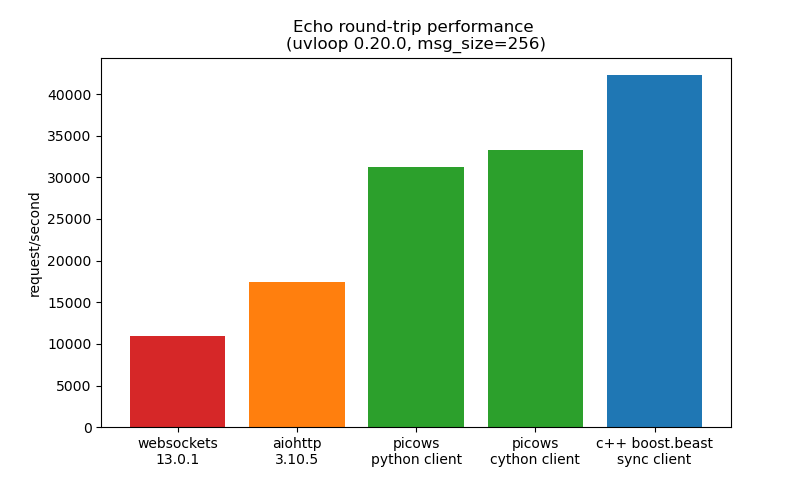
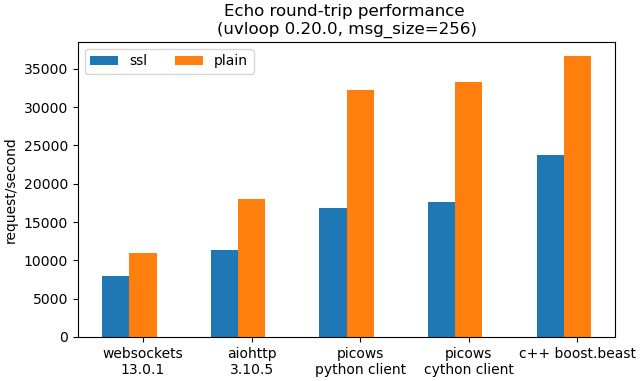
Add ssl to benchmark, update benchmark

diff --git a/examples/echo_client_benchmark.py b/examples/echo_client_benchmark.py
@@ -6,7 +6,9 @@ import subprocess
 
 from logging import getLogger
 from ssl import SSLContext
+from typing import List, Dict, Tuple
 
+import numpy as np
 import websockets
 import aiohttp
 from aiohttp import ClientSession, WSMsgType as aiohttp_WSMsgType
@@ -17,7 +19,8 @@ from time import time
 _logger = getLogger(__name__)
 
 
-RPS = {}
+RPS: Dict[str, List[float]] = {"ssl": [], "plain": []}
+NAMES: List[str] = []
 
 
 def create_client_ssl_context():
@@ -30,11 +33,11 @@ def create_client_ssl_context():
 
 
 async def picows_main(endpoint: str, msg: bytes, duration: int, ssl_context):
-    print(f"Run picows python client")
+    cl_type = "plain" if ssl_context is None else "ssl"
+    print(f"Run picows python {cl_type} client")
     class PicowsClientListener(WSListener):
         def __init__(self):
             super().__init__()
-            self._full_msg = bytearray()
 
         def on_ws_connected(self, transport: WSTransport):
             self._transport = transport
@@ -43,48 +46,43 @@ async def picows_main(endpoint: str, msg: bytes, duration: int, ssl_context):
             self._transport.send(WSMsgType.BINARY, msg)
 
         def on_ws_frame(self, transport: WSTransport, frame: WSFrame):
-            if frame.fin:
-                if self._full_msg:
-                    self._full_msg += frame.get_payload_as_memoryview()
-                    self._full_msg.clear()
-                else:
-                    pass
-            else:
-                self._full_msg += frame.get_payload_as_memoryview()
-                return
-
+            global result
             self._cnt += 1
 
             if time() - self._start_time >= duration:
-                RPS["picows\npython client"] = int(self._cnt / duration)
+                self.result = "picows\npython client", int(self._cnt / duration)
                 self._transport.disconnect()
             else:
                 self._transport.send(WSMsgType.BINARY, msg)
 
     (_, client) = await ws_connect(PicowsClientListener, endpoint, ssl_context=ssl_context)
     await client._transport.wait_disconnected()
+    return client.result
 
 
 async def websockets_main(endpoint: str, msg: bytes, duration: int, ssl_context):
-    print(f"Run websockets ({websockets.__version__}) client")
+    cl_type = "plain" if ssl_context is None else "ssl"
+
+    print(f"Run websockets ({websockets.__version__}) {cl_type} client")
     async with websockets.connect(endpoint, ssl=ssl_context) as websocket:
         await websocket.send(msg)
         start_time = time()
         cnt = 0
         while True:
             reply = await websocket.recv()
-            assert reply == msg
             cnt += 1
             if time() - start_time >= duration:
                 break
             else:
                 await websocket.send(msg)
 
-        RPS[f"websockets\n{websockets.__version__}"] = int(cnt / duration)
+        return f"websockets\n{websockets.__version__}",  int(cnt / duration)
 
 
-async def aiohttp_main(url: str, data: bytes, duration: int, ssl_context) -> None:
-    print(f"Run aiohttp ({aiohttp.__version__}) client")
+async def aiohttp_main(url: str, data: bytes, duration: int, ssl_context):
+    cl_type = "plain" if ssl_context is None else "ssl"
+
+    print(f"Run aiohttp ({aiohttp.__version__}) {cl_type} client")
 
     async with ClientSession() as session:
         async with session.ws_connect(url, ssl_context=ssl_context) as ws:
@@ -99,8 +97,8 @@ async def aiohttp_main(url: str, data: bytes, duration: int, ssl_context) -> Non
                 if msg.type == aiohttp_WSMsgType.BINARY:
                     cnt += 1
                     if time() - start_time >= duration:
-                        RPS[f"aiohttp\n{aiohttp.__version__}"] = int(cnt/duration)
                         await ws.close()
+                        return f"aiohttp\n{aiohttp.__version__}", int(cnt/duration)
                     else:
                         await ws.send_bytes(data)
                 else:
@@ -117,15 +115,14 @@ async def aiohttp_main(url: str, data: bytes, duration: int, ssl_context) -> Non
 if __name__ == '__main__':
     parser = argparse.ArgumentParser(description="Publish updates to telegram subscribers",
                                      formatter_class=argparse.ArgumentDefaultsHelpFormatter)
-    parser.add_argument("--url", default="ws://127.0.0.1:9001", help="Server url")
+    parser.add_argument("--host", default="127.0.0.1", help="Server host")
+    parser.add_argument("--plain-port", default="9001", help="Server port with plain websockets")
+    parser.add_argument("--ssl-port", default="9002", help="Server port with secure websockets")
     parser.add_argument("--msg-size", default="256", help="Message size")
-    parser.add_argument("--level", default="INFO", help="python logger level")
     parser.add_argument("--duration", default="5", help="duration of test in seconds")
     parser.add_argument("--disable-uvloop", action="store_true", help="Disable uvloop")
     parser.add_argument("--picows-only", action="store_true", help="Run only picows cython client")
     parser.add_argument("--boost-client", help="Path to boost client binary")
-    parser.add_argument("--log-file", help="tee log to file")
-    parser.add_argument("--log-scale", action="store_true", help="Plot RPS on log scale")
     args = parser.parse_args()
 
     msg_size = int(args.msg_size)
@@ -139,27 +136,60 @@ if __name__ == '__main__':
             asyncio.set_event_loop_policy(uvloop.EventLoopPolicy())
             loop_name = f"uvloop {uvloop.__version__}"
 
-    ssl_context = create_client_ssl_context() if args.url.startswith("wss://") else None
+    ssl_context = create_client_ssl_context()
+    plain_url = f"ws://{args.host}:{args.plain_port}/"
+    ssl_url = f"wss://{args.host}:{args.ssl_port}/"
 
     if not args.picows_only:
-        asyncio.run(websockets_main(args.url, msg, duration, ssl_context))
-        asyncio.run(aiohttp_main(args.url, msg, duration, ssl_context))
-        asyncio.run(picows_main(args.url, msg, duration, ssl_context))
+        _, rps = asyncio.run(websockets_main(plain_url, msg, duration, None))
+        RPS["plain"].append(rps)
+        name, rps = asyncio.run(websockets_main(ssl_url, msg, duration, ssl_context))
+        RPS["ssl"].append(rps)
+        NAMES.append(name)
+
+        _, rps = asyncio.run(aiohttp_main(plain_url, msg, duration, None))
+        RPS["plain"].append(rps)
+        name, rps = asyncio.run(aiohttp_main(ssl_url, msg, duration, ssl_context))
+        RPS["ssl"].append(rps)
+        NAMES.append(name)
+
+        _, rps = asyncio.run(picows_main(plain_url, msg, duration, None))
+        RPS["plain"].append(rps)
+        name, rps = asyncio.run(picows_main(ssl_url, msg, duration, ssl_context))
+        RPS["ssl"].append(rps)
+        NAMES.append(name)
 
     try:
         from examples.echo_client_cython import picows_main_cython
-        print(f"Run picows cython client")
-        picows_cython_rps = asyncio.run(picows_main_cython(args.url, msg, duration, ssl_context))
-        RPS["picows\ncython client"] = picows_cython_rps
+        print(f"Run picows cython plain client")
+        rps = asyncio.run(picows_main_cython(plain_url, msg, duration, None))
+        RPS["plain"].append(rps)
+        print(f"Run picows cython ssl client")
+        rps = asyncio.run(picows_main_cython(ssl_url, msg, duration, ssl_context))
+        RPS["ssl"].append(rps)
+        NAMES.append("picows\ncython client")
     except ImportError:
         pass
 
     if not args.picows_only and args.boost_client is not None:
-        print(f"Run boost.beast client")
-        pr = subprocess.run([args.boost_client, b"127.0.0.1", b"9001", args.msg_size, args.duration],
+        print(f"Run boost.beast plain client")
+        pr = subprocess.run([args.boost_client, b"0",
+                             args.host.encode(),
+                             args.plain_port.encode(),
+                             args.msg_size, args.duration],
+                            shell=False, check=True, capture_output=True)
+        _, rps = pr.stdout.split(b":", 2)
+        RPS["plain"].append(int(rps.decode()))
+
+        print(f"Run boost.beast ssl client")
+        pr = subprocess.run([args.boost_client, b"1",
+                             args.host.encode(),
+                             args.ssl_port.encode(),
+                             args.msg_size, args.duration],
                             shell=False, check=True, capture_output=True)
         name, rps = pr.stdout.split(b":", 2)
-        RPS[f"c++ boost.beast\n{name.decode()}"] = int(rps.decode())
+        RPS["ssl"].append(int(rps.decode()))
+        NAMES.append(f"c++ boost.beast")
 
     if args.picows_only:
         exit()
@@ -167,24 +197,26 @@ if __name__ == '__main__':
     for k, v in RPS.items():
         print(k.replace("\n", " "), v)
 
+    print("names:", " | ".join(n.replace("\n", " ") for n in NAMES))
+
     try:
         import matplotlib.pyplot as plt
 
-        fig, ax = plt.subplots()
+        fig, ax = plt.subplots(layout='constrained')
 
-        libraries = list(RPS.keys())
-        counts = list(RPS.values())
-        bar_colors = ['tab:red', 'tab:orange', 'tab:green', 'tab:green', 'tab:blue']
+        x = np.arange(len(NAMES))
+        width = 0.25  # the width of the bars
+        multiplier = 0
 
-        ax.bar(libraries, counts, label=libraries, color=bar_colors)
+        for cl_type, measurement in RPS.items():
+            offset = width * multiplier
+            rects = ax.bar(x + offset, measurement, width, label=cl_type)
+            multiplier += 1
 
         ax.set_ylabel('request/second')
-        if args.log_scale:
-            ax.set_yscale('log')
-            ax.set_yticks([counts[0]/2, 10000, 20000, 30000, 40000])
         ax.set_title(f'Echo round-trip performance \n({loop_name}, msg_size={msg_size})')
-
-        # ax.legend(title="Libraries")
+        ax.set_xticks(x + width, NAMES)
+        ax.legend(loc='upper left', ncols=3)
 
         plt.show()
     except ImportError:
